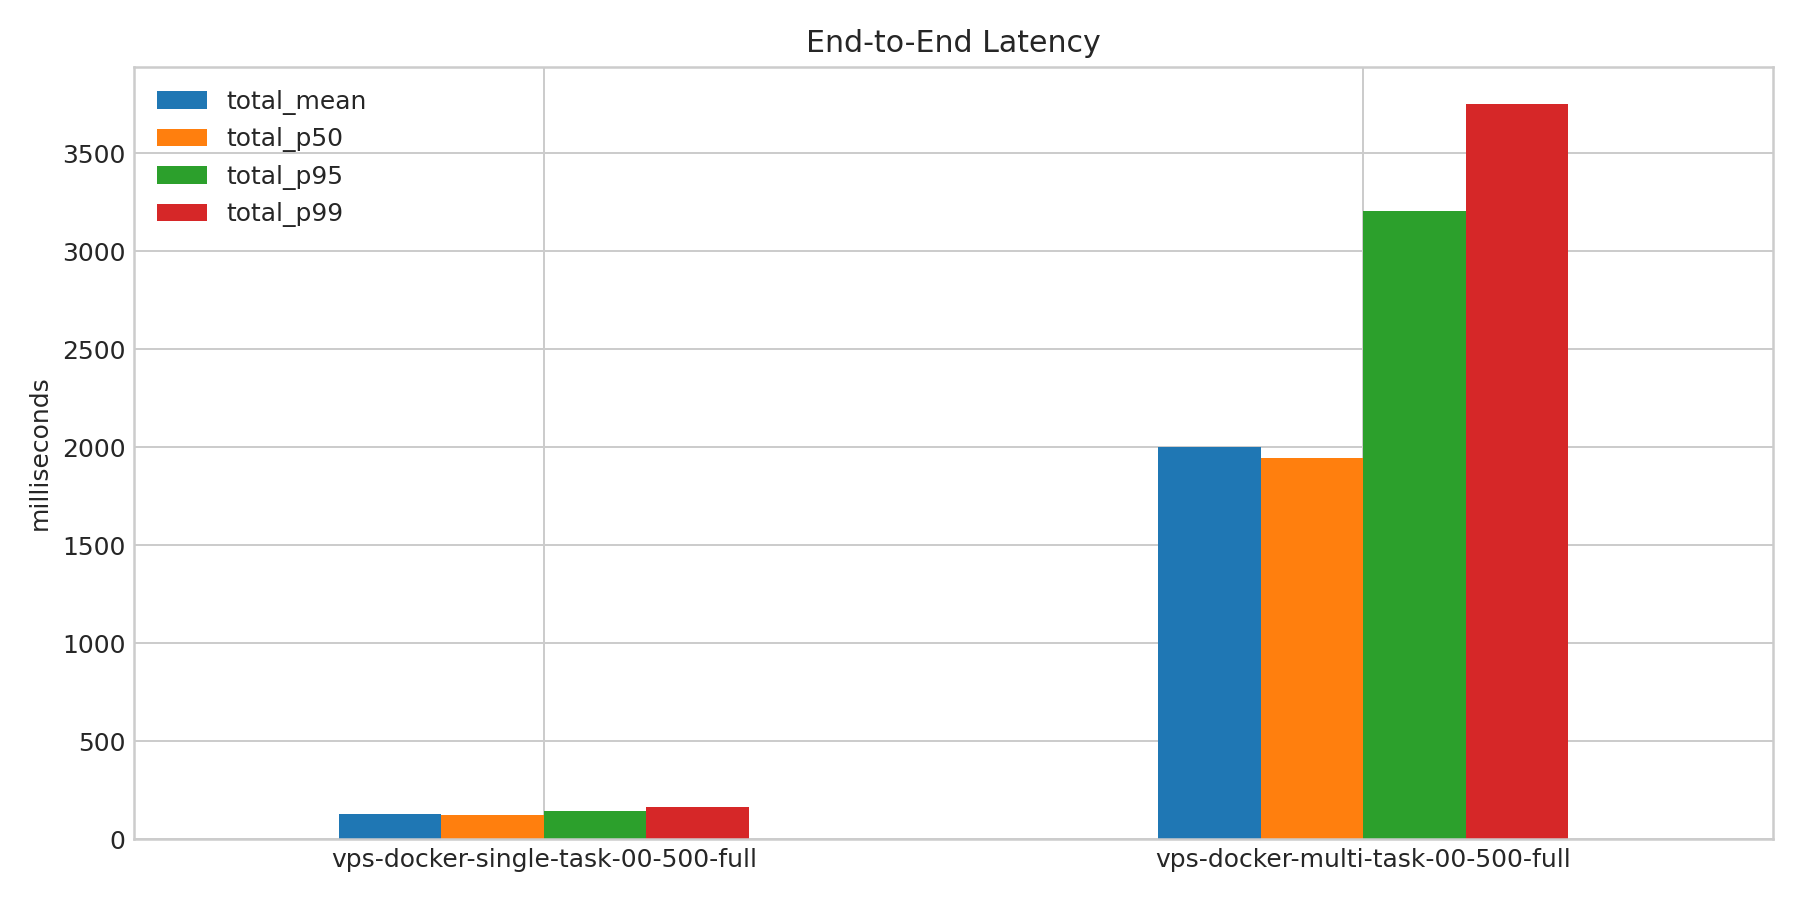
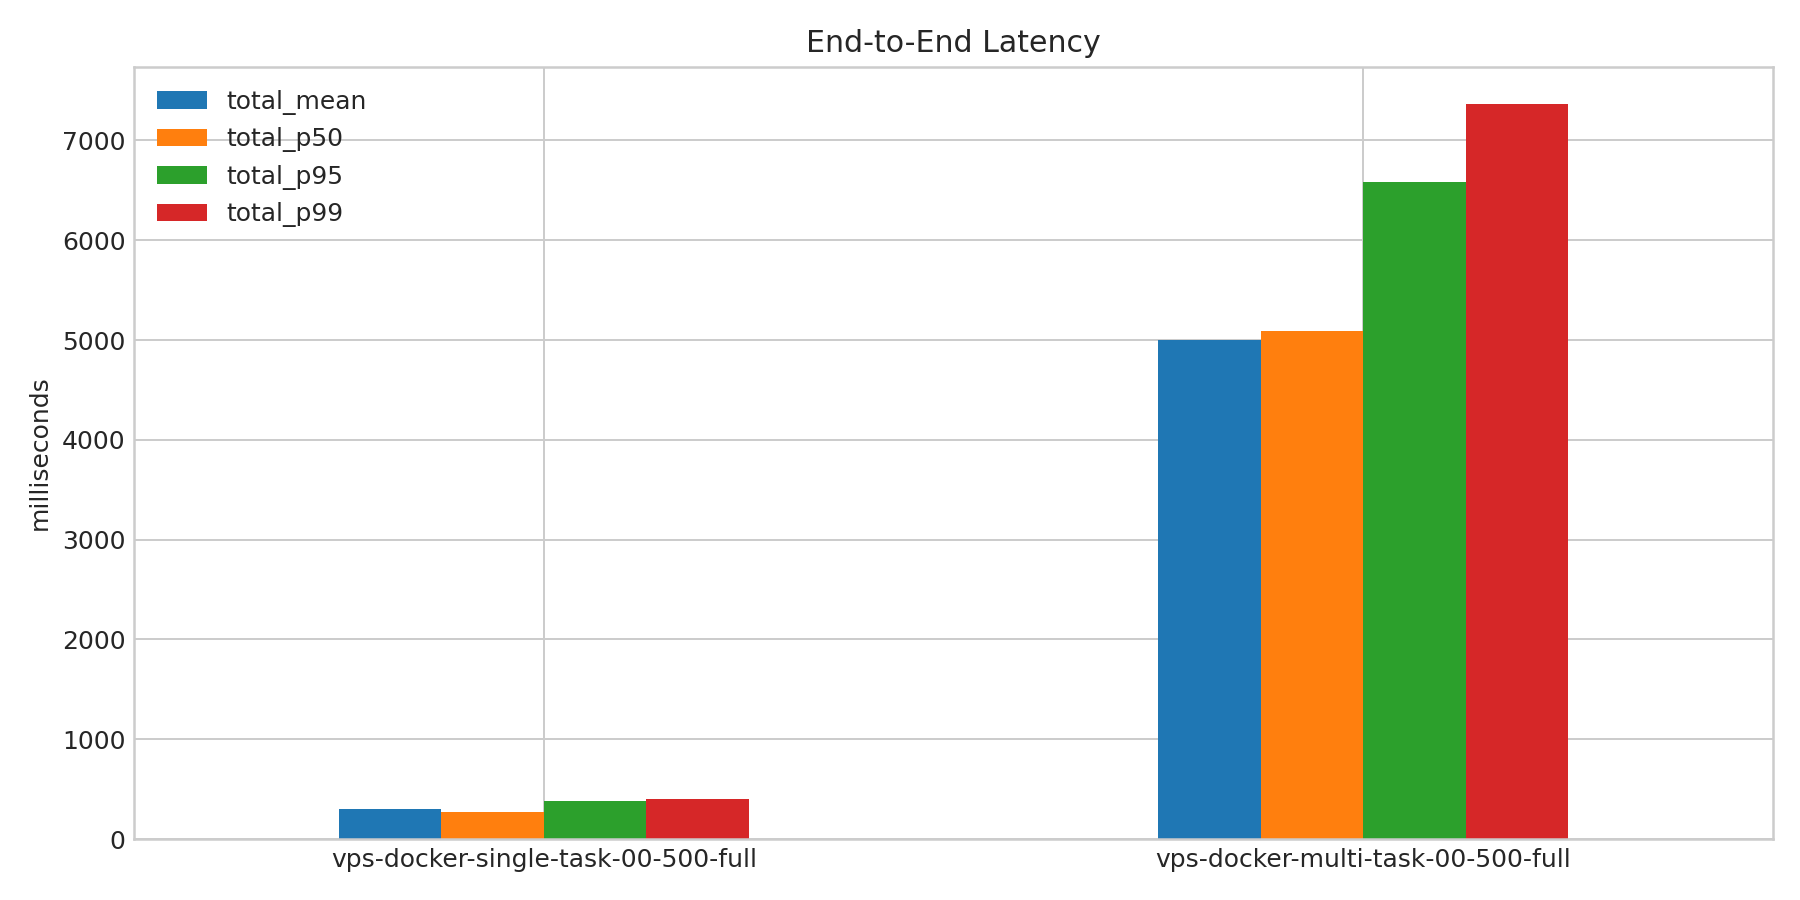
update strace data

diff --git a/scripts/export_pair_report.py b/scripts/export_pair_report.py
@@ -828,6 +828,26 @@ def build_pair_outputs(
             title="Context Switch Timeline",
             output_path=pair_dir / "figures" / "context_switch_timeline.png",
         )
+        plot_time_series_panels(
+            panel_specs=[
+                {
+                    "subtitle": "strace Events per Second",
+                    "ylabel": "events/sec",
+                    "left": time_series_points(left_summary, ["collector_analysis", "strace", "time_series", "events_per_s"]),
+                    "right": time_series_points(right_summary, ["collector_analysis", "strace", "time_series", "events_per_s"]),
+                },
+                {
+                    "subtitle": "strace Duration per Second",
+                    "ylabel": "ms/sec",
+                    "left": time_series_points(left_summary, ["collector_analysis", "strace", "time_series", "duration_ms_per_s"]),
+                    "right": time_series_points(right_summary, ["collector_analysis", "strace", "time_series", "duration_ms_per_s"]),
+                },
+            ],
+            label_a=left_name,
+            label_b=right_name,
+            title="strace Timeline",
+            output_path=pair_dir / "figures" / "strace_timeline.png",
+        )
 
     figure_paths = [
         ("Latency Overview", pair_dir / "figures" / "latency_overview.png"),
@@ -840,6 +860,7 @@ def build_pair_outputs(
         ("I/O Load Timeline", pair_dir / "figures" / "io_load_timeline.png"),
         ("Interrupt Timeline", pair_dir / "figures" / "interrupts_timeline.png"),
         ("Context Switch Timeline", pair_dir / "figures" / "context_switch_timeline.png"),
+        ("strace Timeline", pair_dir / "figures" / "strace_timeline.png"),
     ]
     figure_lines = [f"- ![{label}](figures/{path.name})" for label, path in figure_paths if path.exists()]
 
@@ -892,7 +913,7 @@ def build_pair_outputs(
         ]
     )
     if left_strace_top_df is not None:
-        pair_markdown += "\n".join(
+        pair_markdown += "\n" + "\n".join(
             [
                 f"**Top strace Syscalls: `{left_name}`**",
                 "",
@@ -901,7 +922,7 @@ def build_pair_outputs(
             ]
         )
     if right_strace_top_df is not None:
-        pair_markdown += "\n".join(
+        pair_markdown += "\n" + "\n".join(
             [
                 f"**Top strace Syscalls: `{right_name}`**",
                 "",

diff --git a/src/openclaw_harness/parsers.py b/src/openclaw_harness/parsers.py
@@ -1248,13 +1248,18 @@ def _parse_strace_line(line: str) -> dict[str, Any] | None:
     stripped = line.strip()
     if not stripped or stripped.startswith("strace:"):
         return None
-    if "unfinished ..." in stripped or "<... " in stripped and " resumed>" in stripped:
+    if "strace: Process" in stripped:
+        stripped = stripped.split("strace: Process", 1)[0].rstrip()
+    if not stripped:
         return None
+    if "unfinished ..." in stripped or "<... " in stripped and " resumed>" in stripped:
+        if "<... " not in stripped or " resumed>" not in stripped:
+            return None
     duration_match = re.search(r"<([0-9]+(?:\.[0-9]+)?)>\s*$", stripped)
     if duration_match is None:
         return None
     timestamp_match = re.match(
-        r"^(?:\[pid\s+(?P<pid>\d+)\]\s+)?(?P<ts>\d{2}:\d{2}:\d{2}(?:\.\d+)?)\s+(?P<body>.+?)\s*<(?P<duration>[0-9]+(?:\.[0-9]+)?)>\s*$",
+        r"^(?:(?:\[pid\s+)?(?P<pid>\d+)\]?\s+)?(?P<ts>\d{2}:\d{2}:\d{2}(?:\.\d+)?)\s+(?P<body>.+?)\s*<(?P<duration>[0-9]+(?:\.[0-9]+)?)>\s*$",
         stripped,
     )
     if timestamp_match is None:
@@ -1262,8 +1267,14 @@ def _parse_strace_line(line: str) -> dict[str, Any] | None:
     body = timestamp_match.group("body").strip()
     if body.startswith("---") or body.startswith("+++"):
         return None
-    syscall_match = re.match(r"(?P<syscall>[a-zA-Z0-9_]+)\(", body)
-    if syscall_match is None:
+    syscall_match = re.match(
+        r"(?:(?P<normal>[a-zA-Z0-9_]+)\(|<\.\.\.\s+(?P<resumed>[a-zA-Z0-9_]+)\s+resumed>\))",
+        body,
+    )
+    syscall = ""
+    if syscall_match is not None:
+        syscall = str(syscall_match.group("normal") or syscall_match.group("resumed") or "")
+    if not syscall:
         return None
     timestamp_text = timestamp_match.group("ts")
     duration_sec = float(timestamp_match.group("duration"))
@@ -1272,7 +1283,7 @@ def _parse_strace_line(line: str) -> dict[str, Any] | None:
         "pid": _parse_number_maybe(timestamp_match.group("pid") or ""),
         "timestamp": timestamp_text,
         "t_sec": t_sec,
-        "syscall": syscall_match.group("syscall"),
+        "syscall": syscall,
         "duration_sec": duration_sec,
         "duration_ms": duration_sec * 1000.0,
         "raw_line": stripped,

diff --git a/res/vps-docker-single-task-00-500-full-vs-vps-docker-multi-task-00-500-10x50/summary.md b/res/vps-docker-single-task-00-500-full-vs-vps-docker-multi-task-00-500-10x50/summary.md
@@ -4,8 +4,8 @@
 
 | scenario | run_dir | requests_total | requests_ok | requests_failed |
 | --- | --- | --- | --- | --- |
-| vps-docker-single-task-00-500-full | /root/client-harness/out/20260325T142928Z_vps-docker-single-task-00-500-full | 500 | 500 | 0 |
-| vps-docker-multi-task-00-500-10x50 | /root/client-harness/out/20260325T141404Z_vps-docker-multi-task-00-500-10x50 | 500 | 500 | 0 |
+| vps-docker-single-task-00-500-full | /root/client-harness/out/20260325T150238Z_vps-docker-single-task-00-500-full | 500 | 500 | 0 |
+| vps-docker-multi-task-00-500-10x50 | /root/client-harness/out/20260325T150547Z_vps-docker-multi-task-00-500-10x50 | 500 | 500 | 0 |
 
 **Figures**
 
@@ -19,60 +19,79 @@
 - ![I/O Load Timeline](figures/io_load_timeline.png)
 - ![Interrupt Timeline](figures/interrupts_timeline.png)
 - ![Context Switch Timeline](figures/context_switch_timeline.png)
+- ![strace Timeline](figures/strace_timeline.png)
 
 **Latency Overview Table**
 
 | scenario | total_mean | total_p50 | total_p95 | total_p99 |
 | --- | --- | --- | --- | --- |
-| vps-docker-single-task-00-500-full | 126.002 | 121.223 | 142.324 | 163.832 |
-| vps-docker-multi-task-00-500-10x50 | 1042.240 | 1010.361 | 1317.441 | 2210.858 |
+| vps-docker-single-task-00-500-full | 297.011 | 272.935 | 384.514 | 403.824 |
+| vps-docker-multi-task-00-500-10x50 | 2545.394 | 2517.716 | 2961.862 | 3968.590 |
 
 **Mean Latency by Phase Table**
 
 | scenario | connect | send | wait | history | total |
 | --- | --- | --- | --- | --- | --- |
-| vps-docker-single-task-00-500-full | 61.865 | 0.806 | 114.509 | 10.663 | 126.002 |
-| vps-docker-multi-task-00-500-10x50 | 289.716 | 2.632 | 1033.416 | 6.168 | 1042.240 |
+| vps-docker-single-task-00-500-full | 80.510 | 1.056 | 278.546 | 17.384 | 297.011 |
+| vps-docker-multi-task-00-500-10x50 | 956.693 | 1.944 | 2533.771 | 9.657 | 2545.394 |
 
 **Tail Latency Table**
 
 | scenario | send_p95 | send_p99 | wait_p50 | wait_p95 | wait_p99 | history_p95 | history_p99 | total_p95 | total_p99 |
 | --- | --- | --- | --- | --- | --- | --- | --- | --- | --- |
-| vps-docker-single-task-00-500-full | 0.822 | 4.627 | 108.746 | 128.882 | 145.965 | 14.380 | 15.915 | 142.324 | 163.832 |
-| vps-docker-multi-task-00-500-10x50 | 4.224 | 110.008 | 1004.365 | 1306.792 | 2204.824 | 9.845 | 15.681 | 1317.441 | 2210.858 |
+| vps-docker-single-task-00-500-full | 1.387 | 5.995 | 251.336 | 364.335 | 386.228 | 23.766 | 34.818 | 384.514 | 403.824 |
+| vps-docker-multi-task-00-500-10x50 | 2.082 | 11.203 | 2507.927 | 2946.515 | 3958.396 | 14.164 | 21.485 | 2961.862 | 3968.590 |
 
 **Container Metrics Table**
 
 | scenario | cpu_percent | mem_percent | block_read_bytes_per_s | block_write_bytes_per_s |
 | --- | --- | --- | --- | --- |
-| vps-docker-single-task-00-500-full | 96.607 | 4.149 | 0.000 | 32208.337 |
-| vps-docker-multi-task-00-500-10x50 | 105.578 | 4.124 | 0.000 | 77252.083 |
+| vps-docker-single-task-00-500-full | 62.645 | 3.720 | 0.000 | 13728.209 |
+| vps-docker-multi-task-00-500-10x50 | 64.731 | 4.073 | 0.000 | 31568.793 |
 
 **Process Metrics Table**
 
 | scenario | cpu_percent | rss_kib | kb_wr_per_s | iodelay | cswch_per_s | nvcswch_per_s |
 | --- | --- | --- | --- | --- | --- | --- |
-| vps-docker-single-task-00-500-full | 99.125 | 2776471.938 | 533.375 | 0.000 | 294.016 | 2.625 |
-| vps-docker-multi-task-00-500-10x50 | 0.000 | 672.000 | 0.000 | 0.000 | 1.000 | 0.000 |
+| vps-docker-single-task-00-500-full | 64.183 | 2503704.564 | 229.301 | 0.000 | 22098.556 | 0.181 |
+| vps-docker-multi-task-00-500-10x50 | 64.598 | 2732345.515 | 276.970 | 0.000 | 22662.735 | 0.159 |
 
 **Disk Metrics Table**
 
 | scenario | busiest_device | pct_util | r_await | w_await | f_await | aqu_sz | wkb_s |
 | --- | --- | --- | --- | --- | --- | --- | --- |
-| vps-docker-single-task-00-500-full | vda | 1.044 | 0.000 | 1.061 | 0.008 | 0.030 | 1314.032 |
-| vps-docker-multi-task-00-500-10x50 | vda | 0.867 | 0.000 | 0.935 | 0.009 | 0.020 | 700.074 |
+| vps-docker-single-task-00-500-full | vda | 0.682 | 0.000 | 1.332 | 0.014 | 0.095 | 2025.514 |
+| vps-docker-multi-task-00-500-10x50 | vda | 0.553 | 0.000 | 1.214 | 0.015 | 0.023 | 1201.008 |
 
 **System Metrics Table**
 
 | scenario | interrupts_per_s | system_context_switches_per_s | run_queue | perf_cache_misses | perf_context_switches | perf_cpu_migrations | perf_page_faults | perf_unsupported_events | strace_events_per_s_peak | strace_duration_ms_per_s_peak | strace_top_syscall | strace_top_syscall_total_duration_sec |
 | --- | --- | --- | --- | --- | --- | --- | --- | --- | --- | --- | --- | --- |
-| vps-docker-single-task-00-500-full | 15084.156 | 15701.125 | 1.219 | - | 726.837 | 4.729 | 9.482 | cache-misses, cache-references | - | - |  | - |
-| vps-docker-multi-task-00-500-10x50 | 12258.036 | 17637.182 | 1.345 | - | 68.448 | 4.903 | 0.000 | cache-misses, cache-references | - | - |  | - |
+| vps-docker-single-task-00-500-full | 58063.624 | 102702.658 | 1.396 | - | 36.838 | 40.924 | 7.303 | cache-misses, cache-references | 4399.000 | 14339.846 | futex | 1178.036 |
+| vps-docker-multi-task-00-500-10x50 | 59353.402 | 105562.106 | 1.530 | - | 37.871 | 41.912 | 196.683 | cache-misses, cache-references | 5851.000 | 9849.841 | futex | 1045.945 |
 
 **Timeline Peaks Table**
 
 | scenario | docker_cpu_peak | docker_cpu_peak_t_sec | docker_mem_peak | docker_mem_peak_t_sec | pidstat_cpu_peak | pidstat_cpu_peak_t_sec | pidstat_rss_peak | pidstat_rss_peak_t_sec | iostat_pct_util_peak | iostat_pct_util_peak_t_sec | iostat_w_await_peak | iostat_w_await_peak_t_sec | vmstat_interrupts_peak | vmstat_interrupts_peak_t_sec | vmstat_context_switches_peak | vmstat_context_switches_peak_t_sec | perf_context_switches_peak | perf_context_switches_peak_t_sec |
 | --- | --- | --- | --- | --- | --- | --- | --- | --- | --- | --- | --- | --- | --- | --- | --- | --- | --- | --- |
-| vps-docker-single-task-00-500-full | 125.290 | 0.000 | 4.260 | 32.785 | 155.000 | 11.000 | 2847400.000 | 11.000 | 2.700 | 33.000 | 5.870 | 33.000 | 16424.000 | 21.000 | 18303.000 | 31.000 | 896.428 | 14.015 |
-| vps-docker-multi-task-00-500-10x50 | 145.050 | 10.091 | 4.250 | 10.091 | 0.000 | 0.000 | 672.000 | 0.000 | 2.000 | 13.000 | 3.730 | 13.000 | 14040.000 | 22.000 | 20671.000 | 33.000 | 88.051 | 8.009 |
+| vps-docker-single-task-00-500-full | 81.530 | 2.522 | 4.250 | 75.666 | 142.000 | 24.000 | 2845320.000 | 24.000 | 5.500 | 96.000 | 12.350 | 126.000 | 86166.000 | 131.000 | 135490.000 | 131.000 | 42.335 | 100.103 |
+| vps-docker-multi-task-00-500-10x50 | 119.600 | 22.699 | 4.250 | 22.699 | 132.000 | 130.000 | 2838872.000 | 23.000 | 2.500 | 69.000 | 8.870 | 54.000 | 83020.000 | 131.000 | 130335.000 | 131.000 | 42.243 | 93.099 |
+
+**Top strace Syscalls: `vps-docker-single-task-00-500-full`**
+
+| scenario | count | total_duration_sec |
+| --- | --- | --- |
+| futex | 105320 | 1178.036 |
+| read | 257991 | 5.670 |
+| write | 88248 | 2.600 |
+| accept4 | 1 | 0.000 |
+
+**Top strace Syscalls: `vps-docker-multi-task-00-500-10x50`**
+
+| scenario | count | total_duration_sec |
+| --- | --- | --- |
+| futex | 121064 | 1045.945 |
+| read | 159752 | 3.493 |
+| write | 81790 | 2.385 |
+| accept4 | 10 | 0.000 |
 

diff --git a/res/vps-docker-single-task-00-500-full-vs-vps-docker-multi-task-00-500-full/summary.md b/res/vps-docker-single-task-00-500-full-vs-vps-docker-multi-task-00-500-full/summary.md
@@ -4,8 +4,8 @@
 
 | scenario | run_dir | requests_total | requests_ok | requests_failed |
 | --- | --- | --- | --- | --- |
-| vps-docker-single-task-00-500-full | /root/client-harness/out/20260325T142928Z_vps-docker-single-task-00-500-full | 500 | 500 | 0 |
-| vps-docker-multi-task-00-500-full | /root/client-harness/out/20260324T183647Z_vps-docker-multi-task-00-500-full | 500 | 500 | 0 |
+| vps-docker-single-task-00-500-full | /root/client-harness/out/20260325T150238Z_vps-docker-single-task-00-500-full | 500 | 500 | 0 |
+| vps-docker-multi-task-00-500-full | /root/client-harness/out/20260325T151158Z_vps-docker-multi-task-00-500-full | 500 | 500 | 0 |
 
 **Figures**
 
@@ -19,60 +19,79 @@
 - ![I/O Load Timeline](figures/io_load_timeline.png)
 - ![Interrupt Timeline](figures/interrupts_timeline.png)
 - ![Context Switch Timeline](figures/context_switch_timeline.png)
+- ![strace Timeline](figures/strace_timeline.png)
 
 **Latency Overview Table**
 
 | scenario | total_mean | total_p50 | total_p95 | total_p99 |
 | --- | --- | --- | --- | --- |
-| vps-docker-single-task-00-500-full | 126.002 | 121.223 | 142.324 | 163.832 |
-| vps-docker-multi-task-00-500-full | 2000.369 | 1942.718 | 3206.884 | 3750.755 |
+| vps-docker-single-task-00-500-full | 297.011 | 272.935 | 384.514 | 403.824 |
+| vps-docker-multi-task-00-500-full | 4998.715 | 5094.946 | 6584.162 | 7365.107 |
 
 **Mean Latency by Phase Table**
 
 | scenario | connect | send | wait | history | total |
 | --- | --- | --- | --- | --- | --- |
-| vps-docker-single-task-00-500-full | 61.865 | 0.806 | 114.509 | 10.663 | 126.002 |
-| vps-docker-multi-task-00-500-full | 389.055 | 4.914 | 1989.450 | 5.980 | 2000.369 |
+| vps-docker-single-task-00-500-full | 80.510 | 1.056 | 278.546 | 17.384 | 297.011 |
+| vps-docker-multi-task-00-500-full | 1806.038 | 3.456 | 4985.545 | 9.690 | 4998.715 |
 
 **Tail Latency Table**
 
 | scenario | send_p95 | send_p99 | wait_p50 | wait_p95 | wait_p99 | history_p95 | history_p99 | total_p95 | total_p99 |
 | --- | --- | --- | --- | --- | --- | --- | --- | --- | --- |
-| vps-docker-single-task-00-500-full | 0.822 | 4.627 | 108.746 | 128.882 | 145.965 | 14.380 | 15.915 | 142.324 | 163.832 |
-| vps-docker-multi-task-00-500-full | 11.813 | 122.814 | 1937.666 | 3190.944 | 3713.961 | 10.093 | 22.291 | 3206.884 | 3750.755 |
+| vps-docker-single-task-00-500-full | 1.387 | 5.995 | 251.336 | 364.335 | 386.228 | 23.766 | 34.818 | 384.514 | 403.824 |
+| vps-docker-multi-task-00-500-full | 4.524 | 39.769 | 5086.257 | 6572.921 | 7358.880 | 16.180 | 29.885 | 6584.162 | 7365.107 |
 
 **Container Metrics Table**
 
 | scenario | cpu_percent | mem_percent | block_read_bytes_per_s | block_write_bytes_per_s |
 | --- | --- | --- | --- | --- |
-| vps-docker-single-task-00-500-full | 96.607 | 4.149 | 0.000 | 32208.337 |
-| vps-docker-multi-task-00-500-full | 102.546 | 4.145 | 0.000 | 118635.584 |
+| vps-docker-single-task-00-500-full | 62.645 | 3.720 | 0.000 | 13728.209 |
+| vps-docker-multi-task-00-500-full | 65.924 | 4.007 | 0.000 | 47188.495 |
 
 **Process Metrics Table**
 
 | scenario | cpu_percent | rss_kib | kb_wr_per_s | iodelay | cswch_per_s | nvcswch_per_s |
 | --- | --- | --- | --- | --- | --- | --- |
-| vps-docker-single-task-00-500-full | 99.125 | 2776471.938 | 533.375 | 0.000 | 294.016 | 2.625 |
-| vps-docker-multi-task-00-500-full | 0.000 | 664.000 | 0.000 | 0.000 | 1.000 | 0.000 |
+| vps-docker-single-task-00-500-full | 64.183 | 2503704.564 | 229.301 | 0.000 | 22098.556 | 0.181 |
+| vps-docker-multi-task-00-500-full | 65.067 | 2697240.385 | 287.141 | 0.000 | 22175.193 | 0.163 |
 
 **Disk Metrics Table**
 
 | scenario | busiest_device | pct_util | r_await | w_await | f_await | aqu_sz | wkb_s |
 | --- | --- | --- | --- | --- | --- | --- | --- |
-| vps-docker-single-task-00-500-full | vda | 1.044 | 0.000 | 1.061 | 0.008 | 0.030 | 1314.032 |
-| vps-docker-multi-task-00-500-full | vda | 0.947 | 0.000 | 1.018 | 0.019 | 0.021 | 734.994 |
+| vps-docker-single-task-00-500-full | vda | 0.682 | 0.000 | 1.332 | 0.014 | 0.095 | 2025.514 |
+| vps-docker-multi-task-00-500-full | vda | 0.691 | 0.000 | 1.375 | 0.017 | 0.061 | 1534.806 |
 
 **System Metrics Table**
 
 | scenario | interrupts_per_s | system_context_switches_per_s | run_queue | perf_cache_misses | perf_context_switches | perf_cpu_migrations | perf_page_faults | perf_unsupported_events | strace_events_per_s_peak | strace_duration_ms_per_s_peak | strace_top_syscall | strace_top_syscall_total_duration_sec |
 | --- | --- | --- | --- | --- | --- | --- | --- | --- | --- | --- | --- | --- |
-| vps-docker-single-task-00-500-full | 15084.156 | 15701.125 | 1.219 | - | 726.837 | 4.729 | 9.482 | cache-misses, cache-references | - | - |  | - |
-| vps-docker-multi-task-00-500-full | 12701.037 | 18710.685 | 1.315 | - | 66.976 | 2.384 | 0.000 | cache-misses, cache-references | - | - |  | - |
+| vps-docker-single-task-00-500-full | 58063.624 | 102702.658 | 1.396 | - | 36.838 | 40.924 | 7.303 | cache-misses, cache-references | 4399.000 | 14339.846 | futex | 1178.036 |
+| vps-docker-multi-task-00-500-full | 59165.867 | 104608.681 | 1.400 | - | 36.766 | 42.471 | 204.813 | cache-misses, cache-references | 5499.000 | 14983.821 | futex | 1063.719 |
 
 **Timeline Peaks Table**
 
 | scenario | docker_cpu_peak | docker_cpu_peak_t_sec | docker_mem_peak | docker_mem_peak_t_sec | pidstat_cpu_peak | pidstat_cpu_peak_t_sec | pidstat_rss_peak | pidstat_rss_peak_t_sec | iostat_pct_util_peak | iostat_pct_util_peak_t_sec | iostat_w_await_peak | iostat_w_await_peak_t_sec | vmstat_interrupts_peak | vmstat_interrupts_peak_t_sec | vmstat_context_switches_peak | vmstat_context_switches_peak_t_sec | perf_context_switches_peak | perf_context_switches_peak_t_sec |
 | --- | --- | --- | --- | --- | --- | --- | --- | --- | --- | --- | --- | --- | --- | --- | --- | --- | --- | --- |
-| vps-docker-single-task-00-500-full | 125.290 | 0.000 | 4.260 | 32.785 | 155.000 | 11.000 | 2847400.000 | 11.000 | 2.700 | 33.000 | 5.870 | 33.000 | 16424.000 | 21.000 | 18303.000 | 31.000 | 896.428 | 14.015 |
-| vps-docker-multi-task-00-500-full | 146.260 | 10.091 | 4.280 | 10.091 | 0.000 | 0.000 | 664.000 | 0.000 | 1.900 | 3.000 | 4.860 | 18.000 | 14430.000 | 2.000 | 21593.000 | 46.000 | 81.867 | 4.004 |
+| vps-docker-single-task-00-500-full | 81.530 | 2.522 | 4.250 | 75.666 | 142.000 | 24.000 | 2845320.000 | 24.000 | 5.500 | 96.000 | 12.350 | 126.000 | 86166.000 | 131.000 | 135490.000 | 131.000 | 42.335 | 100.103 |
+| vps-docker-multi-task-00-500-full | 135.540 | 22.703 | 4.250 | 22.703 | 141.000 | 131.000 | 2883276.000 | 23.000 | 3.200 | 54.000 | 19.440 | 54.000 | 87876.000 | 132.000 | 135799.000 | 132.000 | 42.074 | 132.139 |
+
+**Top strace Syscalls: `vps-docker-single-task-00-500-full`**
+
+| scenario | count | total_duration_sec |
+| --- | --- | --- |
+| futex | 105320 | 1178.036 |
+| read | 257991 | 5.670 |
+| write | 88248 | 2.600 |
+| accept4 | 1 | 0.000 |
+
+**Top strace Syscalls: `vps-docker-multi-task-00-500-full`**
+
+| scenario | count | total_duration_sec |
+| --- | --- | --- |
+| futex | 127019 | 1063.719 |
+| read | 156195 | 3.422 |
+| write | 82063 | 2.413 |
+| accept4 | 20 | 0.001 |
 
